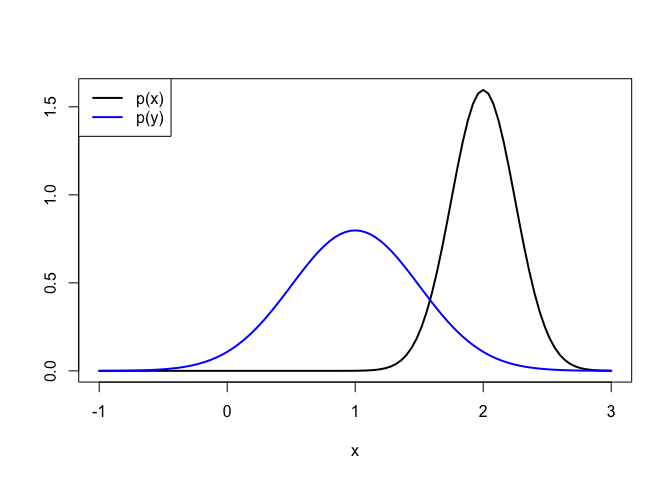
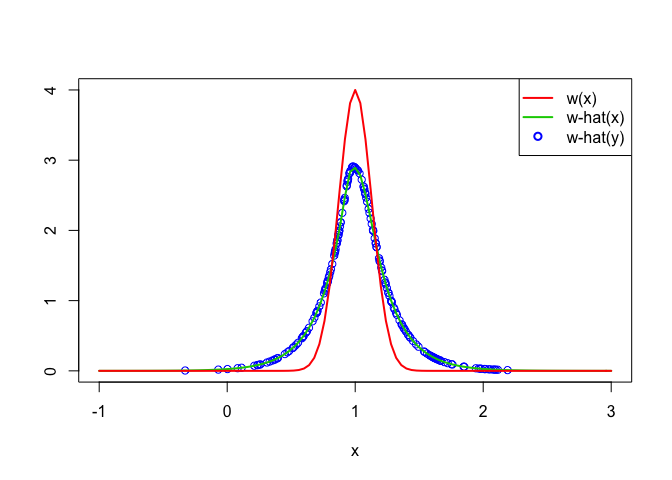
add densratio()

diff --git a/README.md b/README.md
@@ -2,25 +2,45 @@
 
 
 
-## 1. KLIEP (Kullback-Leibler Importance Estimation Procedure)
+## 1. Overviews
+
+@Hido2010
+
+@NIPS2007_232
+
+## 2. How to Install
+
+The source code for **densratio** package is available on GitHub at
+
+- https://github.com/hoxo-m/densratio.
+
+You can install the package from there.
 
 
 ```r
-set.seed(314)
-x <- rnorm(400, 1, 1/8)
-y <- rnorm(400, 1, 1/2)
+install.packages("devtools") # if you have not installed "devtools" package
+devtools::install_github("hoxo-m/densratio")
+```
+
+## 3. Usage
+
+
+```r
+set.seed(71)
+x <- rnorm(200, 1, 1/8)
+y <- rnorm(200, 1, 1/2)
 
 plot(function(x) dnorm(x, 1, 1/8), xlim=c(-1, 3), xlab="x", ylab="", lwd=2)
 plot(function(x) dnorm(x, 1, 1/2), xlim=c(-1, 3), lwd=2, col=4, add=TRUE)
 legend("topright", legend=c("p(x)","p(y)"), col=c(1,4), lwd=2)
 ```
 
-![](README_files/figure-html/unnamed-chunk-1-1.png)
+![](README_files/figure-html/unnamed-chunk-2-1.png)
 
 
 ```r
 library(densratio)
-result <- KLIEP(x, y)
+result <- densratio(x, y)
 ```
 
 
@@ -31,7 +51,7 @@ plot(function(x) dnorm(x, 1, 1/8) / dnorm(x, 1, 1/2), xlim=c(-1, 3), lwd=2, col=
 legend("topright", legend=c("w(x)","w-hat(x)","w-hat(y)"), col=2:4, lty=c(1,1,NA), lwd=2, pch=c(NA,NA,1))
 ```
 
-![](README_files/figure-html/unnamed-chunk-3-1.png)
+![](README_files/figure-html/unnamed-chunk-4-1.png)
 
 
 ```r
@@ -43,11 +63,11 @@ plot(function(x) dnorm(x, 1, 1/2), xlim=c(-1, 3), lwd=2, col=4, add=TRUE)
 legend("topleft", legend=c("p(x)","p(y)"), col=c(1,4), lwd=2)
 ```
 
-![](README_files/figure-html/unnamed-chunk-4-1.png)
+![](README_files/figure-html/unnamed-chunk-5-1.png)
 
 
 ```r
-result <- KLIEP(x, y)
+result <- densratio(x, y)
 ```
 
 
@@ -58,10 +78,6 @@ plot(function(x) dnorm(x, 2, 1/4) / dnorm(x, 1, 1/2), xlim=c(-1, 3), lwd=2, col=
 legend("topleft", legend=c("w(x)","w-hat(x)","w-hat(y)"), col=2:4, lty=c(1,1,NA), lwd=2, pch=c(NA,NA,1))
 ```
 
-![](README_files/figure-html/unnamed-chunk-6-1.png)
+![](README_files/figure-html/unnamed-chunk-7-1.png)
 
 ## References
-
-[1] Sugiyama, M., Nakajima, S., Kashima, H., von Bünau, P. & Kawanabe, M. 
-Direct importance estimation with model selection and its application to covariate shift adaptation. 
-
